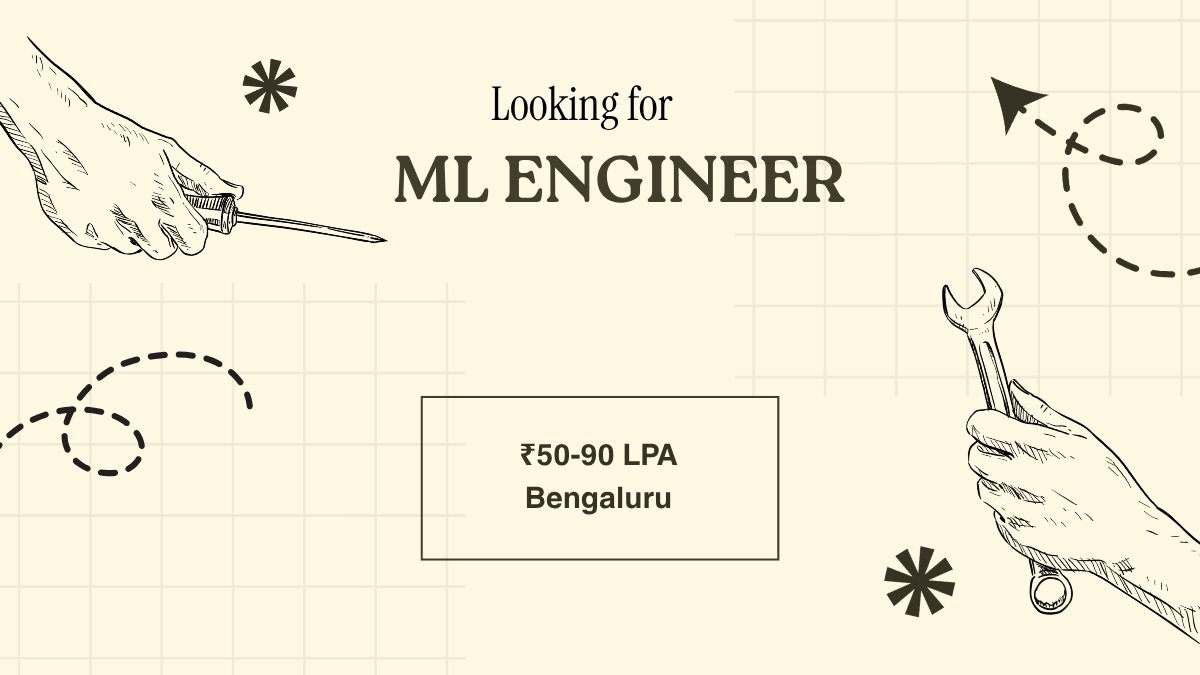
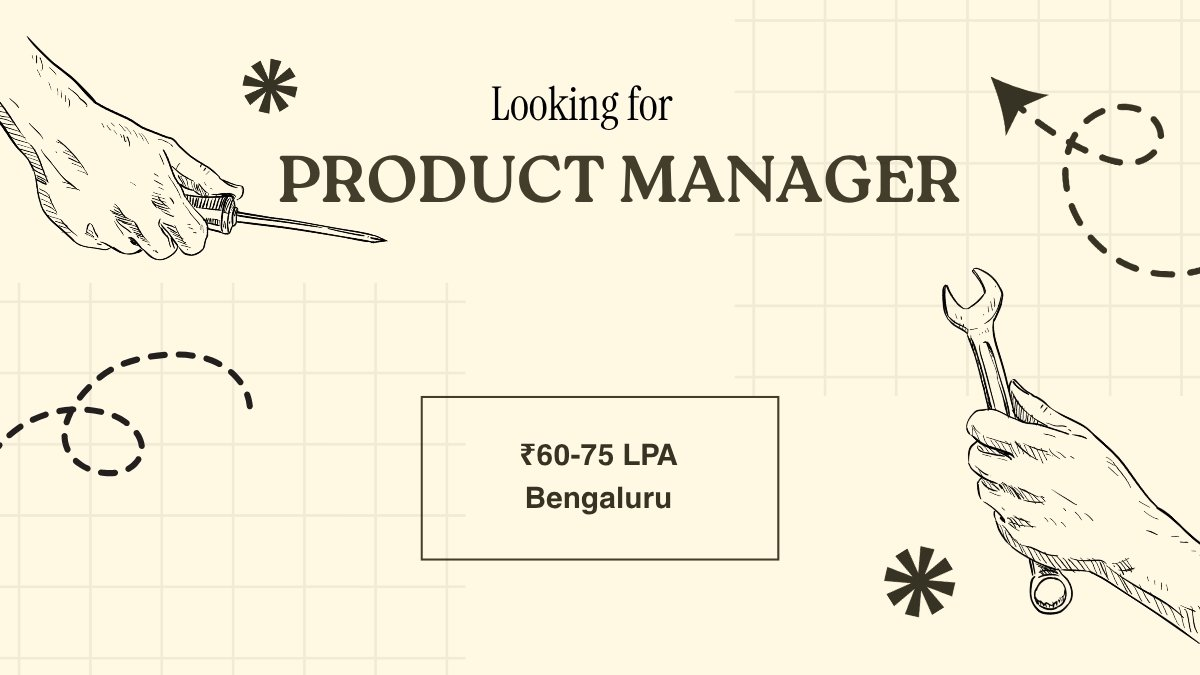
Add files via upload

Changed region(s): [[0.2158, 0.2178, 0.8017, 0.3111], [0.4317, 0.6533, 0.5242, 0.6844]]

diff --git a/index.html b/index.html
@@ -160,7 +160,7 @@ The actual work:
 
 If it is not, DM me. Or tag someone who was building retrieval systems before they had a job title.
 
-JD link is in the comments.">Copy post</button></div></div></div></div><div class="panel" id="panel-cur-Rahul"><div class="voice">Voice: dry engineer. Understated, technically precise, no hype.</div><div class="thin">Airtable showed Rahul 3 live roles with reachouts this week, so the other 4 day slots use OLDER, more senior roles from Rahul&rsquo;s own book. Nothing is borrowed from another AM. 3 of the seven ran within the last two weeks. Rahul&rsquo;s book could not fill a fresh week once dead pages were removed, so the two-week no-repeat was relaxed rather than borrowing from another AM.</div><details class="roles"><summary>Internal roles table (do NOT name the company in the post)</summary><table><tbody><tr><th>Day</th><th>Company (internal)</th><th>Role</th><th>Priority</th><th>Salary</th><th>Location</th><th>Reachouts last wk</th><th>Job post link</th></tr><tr><td>Day 1 &middot; Tue Sep 1</td><td>Prodigal</td><td>Machine Learning Engineer</td><td><span class="pri">P0</span></td><td>up to ₹120 LPA</td><td>Bengaluru, Karnataka, India</td><td>165</td><td><a href="https://jobs.weekday.works/weekday-partner-network-machine-learning-engineer-6t1bhq">link</a></td></tr><tr><td>Day 2 &middot; Wed Sep 2</td><td>AtoB</td><td>Senior Software Engineer</td><td><span class="pri">Top P0</span></td><td>up to ₹80 LPA</td><td>Canada (in-office)</td><td>134</td><td><a href="https://jobs.weekday.works/weekday-partner-network-senior-software-engineer-15vxwc">link</a></td></tr><tr><td>Day 3 &middot; Thu Sep 3</td><td>Prodigal</td><td>AI Engineer</td><td><span class="pri">P0</span></td><td>up to ₹100 LPA</td><td>Koramangala, Bengaluru, Karnataka, India (5 days per week onsite)</td><td>128</td><td><a href="https://jobs.weekday.works/weekday-partner-network-ai-engineer-3qq4vx">link</a></td></tr><tr><td>Day 4 &middot; Fri Sep 4</td><td>VectorShift</td><td>Product Manager</td><td><span class="pri">Top P0</span></td><td>₹20-40 LPA</td><td>Remote (India)</td><td>0</td><td><a href="https://jobs.weekday.works/weekday-partner-network-product-manager-vnsnnl">link</a></td></tr><tr><td>Day 5 &middot; Sat Sep 5</td><td>Gallop Intelligence</td><td>Forward Deployed Engineer</td><td><span class="pri">Top P0</span></td><td>₹40-60 LPA</td><td>Bengaluru</td><td>0</td><td><a href="https://jobs.weekday.works/weekday-partner-network-forward-deployed-engineer-gbp431">link</a></td></tr><tr><td>Day 6 &middot; Sun Sep 6</td><td>Ema</td><td>ML Engineer</td><td><span class="pri">P1</span></td><td>₹50-90 LPA</td><td>Bengaluru</td><td>0</td><td><a href="https://jobs.weekday.works/weekday-partner-network-ml-engineer-9pr7gx">link</a></td></tr><tr><td>Day 7 &middot; Mon Sep 7</td><td>Gallop Intelligence</td><td>Lead Engineer</td><td><span class="pri">P1</span></td><td>₹60-100 LPA</td><td>Bengaluru, Karnataka, India</td><td>0</td><td><a href="https://jobs.weekday.works/weekday-partner-network-lead-engineer-yqx8yx">link</a></td></tr></tbody></table></details><div class="cards"><div class="card"><div class="cardhead"><h3>Day 1 &middot; Tue Sep 1<br><span class="muted">Machine Learning Engineer</span></h3><div class="badges"><span class="pri">P0</span><span class="badge b-not">Not posted yet</span></div></div><div class="metrics"><span><b>up to ₹120 LPA</b></span><span>Bengaluru, Karnataka, India</span></div><a class="shot" href="img/wk7-d1-rahul.jpg" target="_blank"><img src="img/wk7-d1-rahul.jpg" alt="Hiring graphic for Machine Learning Engineer" loading="lazy" width="1200" height="675"></a><div class="post"><p>I&#x27;m hiring a Machine Learning Engineer for a small AI product company in Bengaluru.</p><p>The work, in order:</p><p class="li">- Design and build ML-powered products and services</p><p class="li">- Architect the data pipelines that feed model training</p><p class="li">- Build the systems that carry models into production, at scale</p><p class="li">- Do all of it inside a small, focused team</p><p>5+ years of experience. The JD text says 5 to 12, so seniors are welcome.</p><p>Pays up to ₹120 LPA, based in Bengaluru, Karnataka, India.</p><p>I am not going to pitch a vision here. The work is the pitch.</p><p>Full JD and application link in the comments. DM me, or tag an ML engineer who ships.</p></div><div class="fc"><span class="firstc">Paste as the FIRST COMMENT</span> <a href="https://jobs.weekday.works/weekday-partner-network-machine-learning-engineer-6t1bhq">https://jobs.weekday.works/weekday-partner-network-machine-learning-engineer-6t1bhq</a><a class="gfx" href="img/wk7-d1-rahul.jpg" download>Download image</a><button class="copy" onclick="cp(this)" data-c="I&#x27;m hiring a Machine Learning Engineer for a small AI product company in Bengaluru.
+JD link is in the comments.">Copy post</button></div></div></div></div><div class="panel" id="panel-cur-Rahul"><div class="voice">Voice: dry engineer. Understated, technically precise, no hype.</div><div class="thin">Airtable showed Rahul 3 live roles with reachouts this week, so the other 4 day slots use OLDER, more senior roles from Rahul&rsquo;s own book. Nothing is borrowed from another AM. 3 of the seven ran within the last two weeks. Rahul&rsquo;s book could not fill a fresh week once dead pages were removed, so the two-week no-repeat was relaxed rather than borrowing from another AM.</div><details class="roles"><summary>Internal roles table (do NOT name the company in the post)</summary><table><tbody><tr><th>Day</th><th>Company (internal)</th><th>Role</th><th>Priority</th><th>Salary</th><th>Location</th><th>Reachouts last wk</th><th>Job post link</th></tr><tr><td>Day 1 &middot; Tue Sep 1</td><td>Prodigal</td><td>Machine Learning Engineer</td><td><span class="pri">P0</span></td><td>up to ₹120 LPA</td><td>Bengaluru, Karnataka, India</td><td>165</td><td><a href="https://jobs.weekday.works/weekday-partner-network-machine-learning-engineer-6t1bhq">link</a></td></tr><tr><td>Day 2 &middot; Wed Sep 2</td><td>AtoB</td><td>Senior Software Engineer</td><td><span class="pri">Top P0</span></td><td>up to ₹80 LPA</td><td>Canada (in-office)</td><td>134</td><td><a href="https://jobs.weekday.works/weekday-partner-network-senior-software-engineer-15vxwc">link</a></td></tr><tr><td>Day 3 &middot; Thu Sep 3</td><td>Prodigal</td><td>AI Engineer</td><td><span class="pri">P0</span></td><td>up to ₹100 LPA</td><td>Koramangala, Bengaluru, Karnataka, India (5 days per week onsite)</td><td>128</td><td><a href="https://jobs.weekday.works/weekday-partner-network-ai-engineer-3qq4vx">link</a></td></tr><tr><td>Day 4 &middot; Fri Sep 4</td><td>VectorShift</td><td>Product Manager</td><td><span class="pri">Top P0</span></td><td>₹20-40 LPA</td><td>Remote (India)</td><td>0</td><td><a href="https://jobs.weekday.works/weekday-partner-network-product-manager-vnsnnl">link</a></td></tr><tr><td>Day 5 &middot; Sat Sep 5</td><td>Gallop Intelligence</td><td>Forward Deployed Engineer</td><td><span class="pri">Top P0</span></td><td>₹40-60 LPA</td><td>Bengaluru</td><td>0</td><td><a href="https://jobs.weekday.works/weekday-partner-network-forward-deployed-engineer-gbp431">link</a></td></tr><tr><td>Day 6 &middot; Sun Sep 6</td><td>Eudia</td><td>Product Manager</td><td><span class="pri">Top Top P0</span></td><td>₹60-75 LPA</td><td>Bengaluru, Karnataka, India</td><td>0</td><td><a href="https://jobs.weekday.works/weekday-partner-network-product-manager-8cdvwv">link</a></td></tr><tr><td>Day 7 &middot; Mon Sep 7</td><td>Gallop Intelligence</td><td>Lead Engineer</td><td><span class="pri">P1</span></td><td>₹60-100 LPA</td><td>Bengaluru, Karnataka, India</td><td>0</td><td><a href="https://jobs.weekday.works/weekday-partner-network-lead-engineer-yqx8yx">link</a></td></tr></tbody></table></details><div class="cards"><div class="card"><div class="cardhead"><h3>Day 1 &middot; Tue Sep 1<br><span class="muted">Machine Learning Engineer</span></h3><div class="badges"><span class="pri">P0</span><span class="badge b-not">Not posted yet</span></div></div><div class="metrics"><span><b>up to ₹120 LPA</b></span><span>Bengaluru, Karnataka, India</span></div><a class="shot" href="img/wk7-d1-rahul.jpg" target="_blank"><img src="img/wk7-d1-rahul.jpg" alt="Hiring graphic for Machine Learning Engineer" loading="lazy" width="1200" height="675"></a><div class="post"><p>I&#x27;m hiring a Machine Learning Engineer for a small AI product company in Bengaluru.</p><p>The work, in order:</p><p class="li">- Design and build ML-powered products and services</p><p class="li">- Architect the data pipelines that feed model training</p><p class="li">- Build the systems that carry models into production, at scale</p><p class="li">- Do all of it inside a small, focused team</p><p>5+ years of experience. The JD text says 5 to 12, so seniors are welcome.</p><p>Pays up to ₹120 LPA, based in Bengaluru, Karnataka, India.</p><p>I am not going to pitch a vision here. The work is the pitch.</p><p>Full JD and application link in the comments. DM me, or tag an ML engineer who ships.</p></div><div class="fc"><span class="firstc">Paste as the FIRST COMMENT</span> <a href="https://jobs.weekday.works/weekday-partner-network-machine-learning-engineer-6t1bhq">https://jobs.weekday.works/weekday-partner-network-machine-learning-engineer-6t1bhq</a><a class="gfx" href="img/wk7-d1-rahul.jpg" download>Download image</a><button class="copy" onclick="cp(this)" data-c="I&#x27;m hiring a Machine Learning Engineer for a small AI product company in Bengaluru.
 
 The work, in order:
 - Design and build ML-powered products and services
@@ -223,18 +223,18 @@ The clients are large Fortune 500 companies. The systems are old. The job is to 
 
 Forward deployed means you go where the legacy systems live. Nobody promised it would be pretty.
 
-Full role details, link in the comments. DM me if this is your kind of problem.">Copy post</button></div></div><div class="card"><div class="cardhead"><h3>Day 6 &middot; Sun Sep 6<br><span class="muted">ML Engineer</span> <span class="ang">older senior role</span> <span class="ang rep">run before, within 2 weeks</span></h3><div class="badges"><span class="pri">P1</span><span class="badge b-not">Not posted yet</span></div></div><div class="metrics"><span><b>₹50-90 LPA</b></span><span>Bengaluru</span></div><a class="shot" href="img/wk7-d6-rahul.jpg" target="_blank"><img src="img/wk7-d6-rahul.jpg" alt="Hiring graphic for ML Engineer" loading="lazy" width="1200" height="675"></a><div class="post"><p>I&#x27;m looking for an ML Engineer at an enterprise AI company in Bengaluru.</p><p>The scope is what it sounds like.</p><p>Design, develop and deploy machine learning models.</p><p>Optimize and maintain the ML pipelines they run on.</p><p>Work with cross-functional teams when the models meet the product.</p><p>5+ years of experience. ₹50-90 LPA. Bengaluru.</p><p>Short JD. Honest scope. Some weeks the models are the easy part.</p><p>JD and application link in the first comment. Tag someone whose pipelines do not fall over.</p></div><div class="fc"><span class="firstc">Paste as the FIRST COMMENT</span> <a href="https://jobs.weekday.works/weekday-partner-network-ml-engineer-9pr7gx">https://jobs.weekday.works/weekday-partner-network-ml-engineer-9pr7gx</a><a class="gfx" href="img/wk7-d6-rahul.jpg" download>Download image</a><button class="copy" onclick="cp(this)" data-c="I&#x27;m looking for an ML Engineer at an enterprise AI company in Bengaluru.
+Full role details, link in the comments. DM me if this is your kind of problem.">Copy post</button></div></div><div class="card"><div class="cardhead"><h3>Day 6 &middot; Sun Sep 6<br><span class="muted">Product Manager</span> <span class="ang">older senior role</span> <span class="ang rep">run before, within 2 weeks</span></h3><div class="badges"><span class="pri">Top Top P0</span><span class="badge b-not">Not posted yet</span></div></div><div class="metrics"><span><b>₹60-75 LPA</b></span><span>Bengaluru, Karnataka, India</span></div><a class="shot" href="img/wk7-d6-rahul.jpg" target="_blank"><img src="img/wk7-d6-rahul.jpg" alt="Hiring graphic for Product Manager" loading="lazy" width="1200" height="675"></a><div class="post"><p>I&#x27;m looking for a Product Manager for a legal technology startup in Bengaluru.</p><p>₹60-75 LPA. 5+ years of experience. Location is Bengaluru, Karnataka, India.</p><p>The company builds an AI-powered platform for document review and contract management. In-house legal teams run on it. The work:</p><p class="li">- Lead product strategy for the AI-powered legal product</p><p class="li">- Collaborate with engineering, design and legal experts</p><p class="li">- Drive product development from ideation through launch</p><p>You will sit between engineers and lawyers. Both groups are precise. Only one bills by the hour.</p><p>DM me, or tag a senior PM who can hold a room of lawyers. JD and application link in the first comment.</p></div><div class="fc"><span class="firstc">Paste as the FIRST COMMENT</span> <a href="https://jobs.weekday.works/weekday-partner-network-product-manager-8cdvwv">https://jobs.weekday.works/weekday-partner-network-product-manager-8cdvwv</a><a class="gfx" href="img/wk7-d6-rahul.jpg" download>Download image</a><button class="copy" onclick="cp(this)" data-c="I&#x27;m looking for a Product Manager for a legal technology startup in Bengaluru.
 
-The scope is what it sounds like.
-Design, develop and deploy machine learning models.
-Optimize and maintain the ML pipelines they run on.
-Work with cross-functional teams when the models meet the product.
+₹60-75 LPA. 5+ years of experience. Location is Bengaluru, Karnataka, India.
 
-5+ years of experience. ₹50-90 LPA. Bengaluru.
+The company builds an AI-powered platform for document review and contract management. In-house legal teams run on it. The work:
+- Lead product strategy for the AI-powered legal product
+- Collaborate with engineering, design and legal experts
+- Drive product development from ideation through launch
 
-Short JD. Honest scope. Some weeks the models are the easy part.
+You will sit between engineers and lawyers. Both groups are precise. Only one bills by the hour.
 
-JD and application link in the first comment. Tag someone whose pipelines do not fall over.">Copy post</button></div></div><div class="card"><div class="cardhead"><h3>Day 7 &middot; Mon Sep 7<br><span class="muted">Lead Engineer</span> <span class="ang">older senior role</span> <span class="ang rep">run before, within 2 weeks</span></h3><div class="badges"><span class="pri">P1</span><span class="badge b-not">Not posted yet</span></div></div><div class="metrics"><span><b>₹60-100 LPA</b></span><span>Bengaluru, Karnataka, India</span></div><a class="shot" href="img/wk7-d7-rahul.jpg" target="_blank"><img src="img/wk7-d7-rahul.jpg" alt="Hiring graphic for Lead Engineer" loading="lazy" width="1200" height="675"></a><div class="post"><p>I&#x27;m filling a Lead Engineer seat at a fast-growing AI platform startup.</p><p>₹60-100 LPA, and the location is Bengaluru, Karnataka, India.</p><p>The company builds scalable enterprise solutions. The work is leading the development and modernization of legacy enterprise systems, driving technical decisions, and owning the architecture. 5+ years of experience.</p><p>Lead means the decisions land on your desk. That is the short version. There is a longer one.</p><p>Link in the comments if you want the full JD. DM me, or tag an engineer ready to lead.</p></div><div class="fc"><span class="firstc">Paste as the FIRST COMMENT</span> <a href="https://jobs.weekday.works/weekday-partner-network-lead-engineer-yqx8yx">https://jobs.weekday.works/weekday-partner-network-lead-engineer-yqx8yx</a><a class="gfx" href="img/wk7-d7-rahul.jpg" download>Download image</a><button class="copy" onclick="cp(this)" data-c="I&#x27;m filling a Lead Engineer seat at a fast-growing AI platform startup.
+DM me, or tag a senior PM who can hold a room of lawyers. JD and application link in the first comment.">Copy post</button></div></div><div class="card"><div class="cardhead"><h3>Day 7 &middot; Mon Sep 7<br><span class="muted">Lead Engineer</span> <span class="ang">older senior role</span> <span class="ang rep">run before, within 2 weeks</span></h3><div class="badges"><span class="pri">P1</span><span class="badge b-not">Not posted yet</span></div></div><div class="metrics"><span><b>₹60-100 LPA</b></span><span>Bengaluru, Karnataka, India</span></div><a class="shot" href="img/wk7-d7-rahul.jpg" target="_blank"><img src="img/wk7-d7-rahul.jpg" alt="Hiring graphic for Lead Engineer" loading="lazy" width="1200" height="675"></a><div class="post"><p>I&#x27;m filling a Lead Engineer seat at a fast-growing AI platform startup.</p><p>₹60-100 LPA, and the location is Bengaluru, Karnataka, India.</p><p>The company builds scalable enterprise solutions. The work is leading the development and modernization of legacy enterprise systems, driving technical decisions, and owning the architecture. 5+ years of experience.</p><p>Lead means the decisions land on your desk. That is the short version. There is a longer one.</p><p>Link in the comments if you want the full JD. DM me, or tag an engineer ready to lead.</p></div><div class="fc"><span class="firstc">Paste as the FIRST COMMENT</span> <a href="https://jobs.weekday.works/weekday-partner-network-lead-engineer-yqx8yx">https://jobs.weekday.works/weekday-partner-network-lead-engineer-yqx8yx</a><a class="gfx" href="img/wk7-d7-rahul.jpg" download>Download image</a><button class="copy" onclick="cp(this)" data-c="I&#x27;m filling a Lead Engineer seat at a fast-growing AI platform startup.
 
 ₹60-100 LPA, and the location is Bengaluru, Karnataka, India.
 
